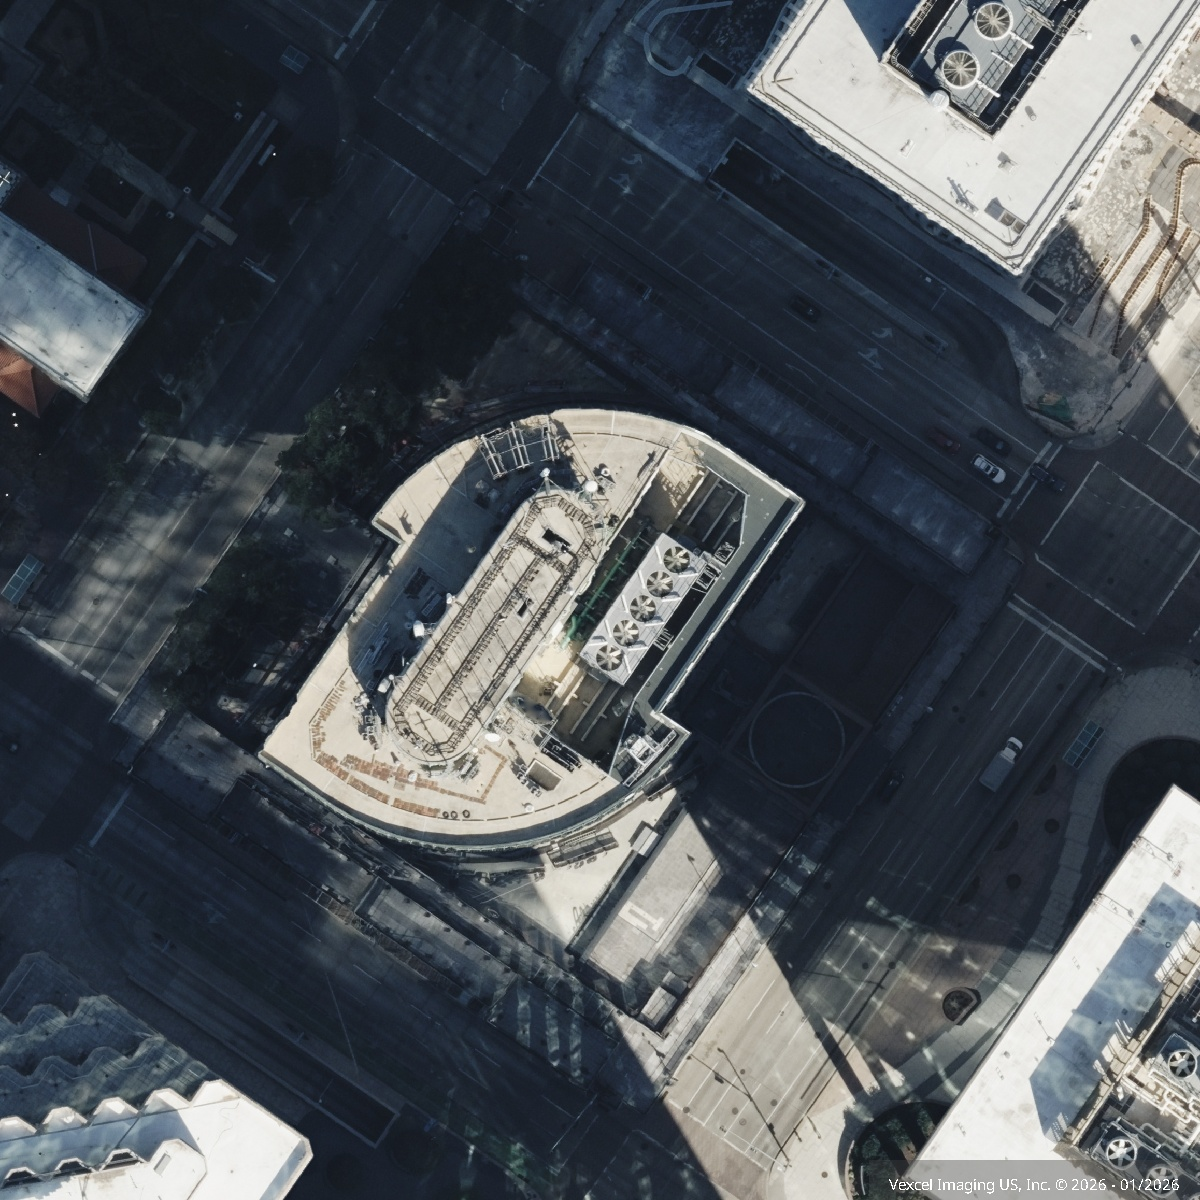
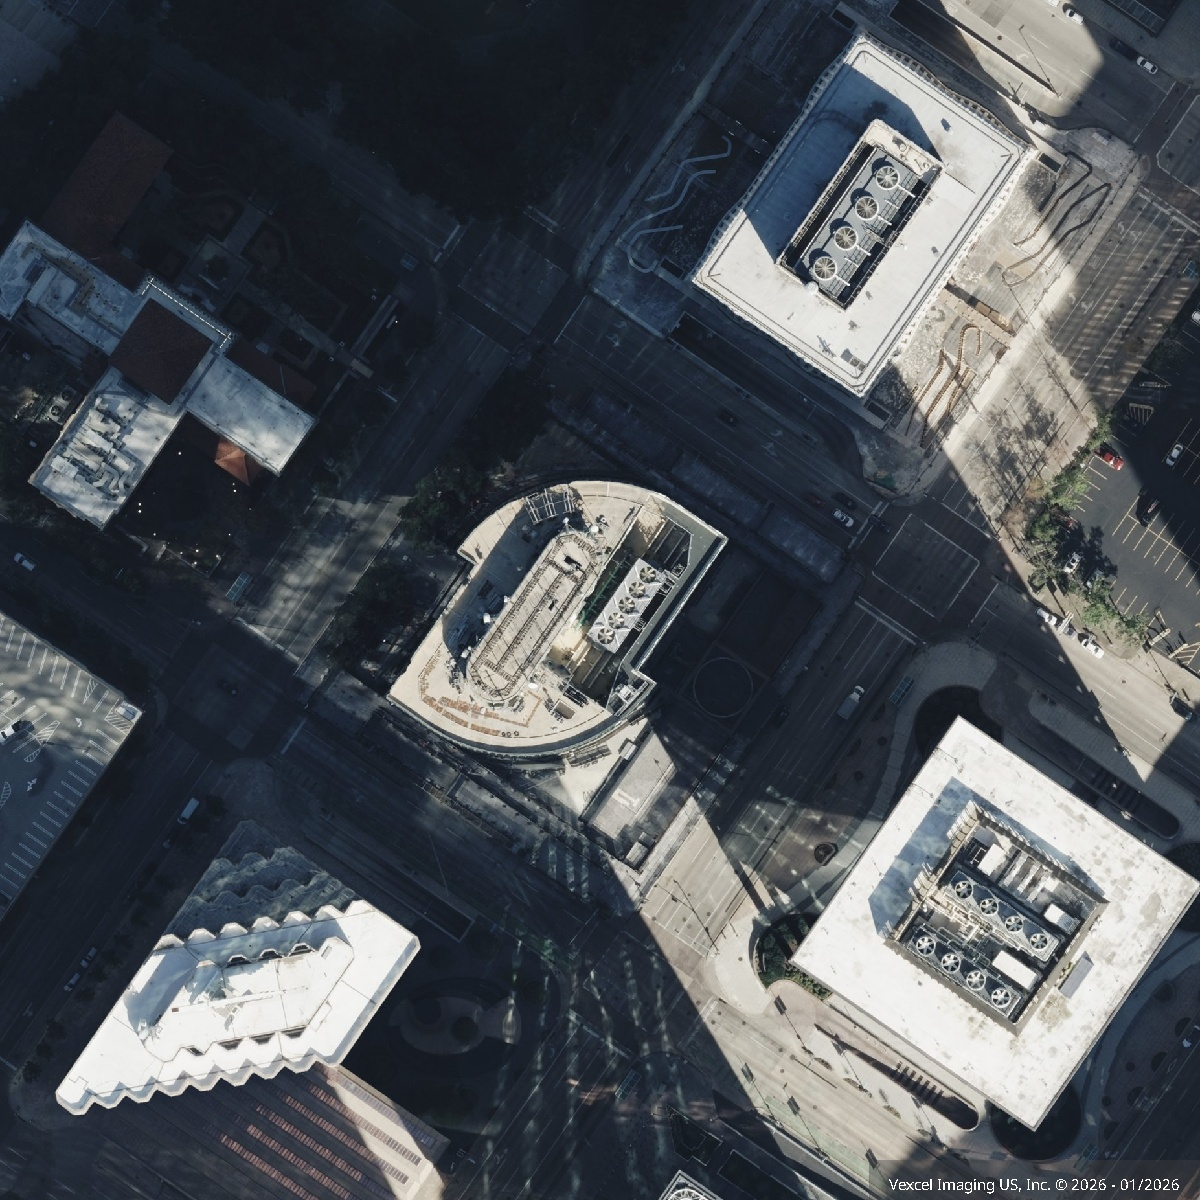
Briefings point to labelled maps instead of scanner jargon; aerial becomes an approach map
- Approach map (outside.approach_map): Vexcel footprint outlined, hydrants H1.., staging lot S
  (or an edge note when off the image), smoke-drift arrow from live wind, neighbouring kit
  buildings, north arrow, 50 m scale. Aerial now covers 240 m so the closest hydrants fit.
- Text: FLOOR MAP / 3D TOUR / HYDRANTS H1 H2 / WIND / STAGING lines; no scan points, scan start
  or walk distances from the scanner. NOT KNOWN names stair and elevator locations.
- Skills, AGENTS.md and a new rubric criterion keep the live agent to the same wording.
- outside.wind() shared by the draft and the agent; footprint WKT kept out of agent tool output.

diff --git a/primesight/outside.py b/primesight/outside.py
@@ -37,12 +37,24 @@ def roof(lat, lon):
         return {}
     a = f[0]["properties"]
     s = max(a.get("structures", []), key=lambda s: s.get("structure.footprint.area", 0) or 0, default={})
-    keep = ("height", "roof-characteristics.material", "roof-objects", "footprint.area", "roof-shape")
+    keep = ("height", "roof-characteristics.material", "roof-objects", "footprint.area", "footprint.wkt", "roof-shape")
     return {"capture_date": a.get("metadata.capture-date") or a.get("metadata.collection"),
             **{k.replace("structure.", ""): v for k, v in s.items() if any(x in k for x in keep)}}
 
 
-def ortho(lat, lon, path, half_m=75):
+def wind(lat, lon):
+    """Current wind and weather at a point (Open-Meteo model, no key). wind_direction_10m is where wind blows FROM."""
+    r = requests.get("https://api.open-meteo.com/v1/forecast", timeout=15, params={
+        "latitude": lat, "longitude": lon, "current": "wind_speed_10m,wind_direction_10m,wind_gusts_10m,temperature_2m,precipitation",
+        "wind_speed_unit": "mph", "temperature_unit": "fahrenheit"})
+    r.raise_for_status()
+    return r.json()["current"]
+
+
+HALF_M = 120  # aerial covers 240 m x 240 m: the building plus the closest hydrants and lots
+
+
+def ortho(lat, lon, path, half_m=HALF_M):
     img = _vx("POST", "ortho/extract", json={"wkt": square(lat, lon, half_m), "srid": 4326, "layer": LAYERS,
                                               "crop": "bounding_box", "image-format": "jpeg", "destination-dimensions": "1200,1200"})
     os.makedirs(os.path.dirname(path), exist_ok=True)
@@ -89,7 +101,99 @@ def hydrants(lat, lon, city, radius_m=150):
     return sorted((*bearing(lat, lon, y, x), y, x) for y, x in pts)
 
 
+DIRS = "N NE E SE S SW W NW".split()
+
+
+def on_map(lat, lon, la, lo, half_m=HALF_M):
+    """Is (la, lo) inside the aerial square centred on (lat, lon)? Map and briefing text number hydrants with this."""
+    return abs(la - lat) * 111_320 < half_m and abs(lo - lon) * 111_320 * math.cos(math.radians(lat)) < half_m
+
+
+def approach_map(src, lat, lon, half_m=HALF_M, footprint=None, title="", hydrants=(), staging=(), wind_from=None,
+                 wind_text="", neighbors=()):
+    """Label the aerial for a crew: target building outlined, hydrants H1.., staging lot S (an arrow at the edge if it is
+    off the image), smoke-drift arrow from the wind, neighbouring buildings, north arrow and a 50 m scale.
+    src is the plain ortho from ortho(); writes <src>_approach.jpg and returns its path.
+    hydrants: [(m, dir, lat, lon)], staging: [(score, m, dir, lat, lon)], neighbors: [{name, stories, sprinklers, lat, lon}]."""
+    from PIL import Image, ImageDraw, ImageFont
+    im = Image.open(src).convert("RGB")
+    W, H = im.size
+    dl, dn = half_m / 111_320, half_m / (111_320 * math.cos(math.radians(lat)))
+    px = lambda la, lo: ((lo - (lon - dn)) / (2 * dn) * W, ((lat + dl) - la) / (2 * dl) * H)
+    inside = lambda p: 0 <= p[0] < W and 0 <= p[1] < H
+    over = Image.new("RGBA", im.size, (0, 0, 0, 0))
+    d = ImageDraw.Draw(over)
+    big, small = ImageFont.load_default(size=max(22, W // 30)), ImageFont.load_default(size=max(18, W // 40))
+    txt = lambda xy, s, f=small, fill="white": d.text(xy, s, font=f, fill=fill, stroke_width=4, stroke_fill="black")
+    cx, cy = W / 2, H / 2
+    if footprint:  # Vexcel structure outline, WKT in lon/lat
+        from shapely import wkt
+        g = wkt.loads(footprint)
+        for poly in getattr(g, "geoms", [g]):
+            pts = [px(y, x) for x, y in poly.exterior.coords]
+            d.line(pts + pts[:1], fill=(255, 140, 0, 255), width=max(5, W // 200))
+        c = g.centroid
+        cx, cy = px(c.y, c.x)
+    else:  # no outline: ring the CoStar point
+        r = W // 14
+        d.ellipse((cx - r, cy - r, cx + r, cy + r), outline=(255, 140, 0, 255), width=max(5, W // 200))
+    if wind_from is not None:  # smoke drifts the way the wind blows TO
+        a = math.radians(wind_from + 180)
+        L = 0.38 * min(W, H)
+        tip = (cx + L * math.sin(a), cy - L * math.cos(a))
+        d.line([(cx, cy), tip], fill=(230, 230, 230, 170), width=max(10, W // 70))
+        for s in (-1, 1):  # arrowhead
+            b = a + math.pi + s * 0.45
+            d.line([tip, (tip[0] + 0.12 * L * math.sin(b), tip[1] - 0.12 * L * math.cos(b))], fill=(230, 230, 230, 200), width=max(10, W // 70))
+        txt((min(tip[0], W - 160), min(max(tip[1], 60), H - 120)), "SMOKE", big)
+    for nb in neighbors:
+        p = px(nb["lat"], nb["lon"])
+        if inside(p):
+            d.ellipse((p[0] - 10, p[1] - 10, p[0] + 10, p[1] + 10), fill=(255, 220, 0, 255), outline="black", width=2)
+            txt((p[0] + 14, p[1] - 12), f'{nb["name"][:18]}, {nb["stories"]} fl, sprinklers {nb["sprinklers"]}', fill=(255, 230, 90))
+    for i, (_, _, _, la, lo) in enumerate(staging[:1]):
+        p = px(la, lo)
+        if inside(p):
+            d.rectangle((p[0] - 26, p[1] - 26, p[0] + 26, p[1] + 26), outline=(0, 230, 255, 255), width=6)
+            txt((p[0] - 10, p[1] - 18), "S", big, fill=(0, 230, 255))
+        else:  # off the image: arrow on the edge toward it
+            m, dr = staging[0][1], staging[0][2]
+            k = min((W / 2 - 40) / max(abs(p[0] - W / 2), 1), (H / 2 - 70) / max(abs(p[1] - H / 2), 1))
+            q = (W / 2 + (p[0] - W / 2) * k, H / 2 + (p[1] - H / 2) * k)
+            txt((min(max(q[0] - 60, 4), W - 300), min(max(q[1] - 16, 60), H - 110)), f"S: {m} m {dr} (off map)", big, fill=(0, 230, 255))
+    n = 0
+    for m, dr, la, lo in hydrants:
+        p = px(la, lo)
+        if on_map(lat, lon, la, lo, half_m) and n < 6:
+            n += 1
+            d.ellipse((p[0] - 15, p[1] - 15, p[0] + 15, p[1] + 15), fill=(230, 30, 30, 255), outline="white", width=3)
+            txt((p[0] + 18, p[1] - 14), f"H{n}", big, fill=(255, 120, 120))
+    # frame: title, north arrow, scale, legend
+    d.rectangle((0, 0, W, 52), fill=(0, 0, 0, 170))
+    txt((12, 10), (title or "APPROACH MAP")[:60], big)
+    d.polygon([(W - 40, 70), (W - 54, 108), (W - 26, 108)], fill="white")
+    txt((W - 48, 110), "N", big)
+    s50 = 50 / (2 * half_m) * W
+    d.rectangle((14, H - 104, 14 + s50, H - 96), fill="white")
+    txt((14, H - 132), "50 m")
+    d.rectangle((0, H - 86, W, H), fill=(0, 0, 0, 170))
+    txt((12, H - 80), "orange = target   H = hydrant   S = open lot for staging (verify)")
+    txt((12, H - 46), wind_text or "wind not available")
+    out = src.replace(".jpg", "_approach.jpg")
+    Image.alpha_composite(im.convert("RGBA"), over).convert("RGB").save(out, quality=88)
+    return out
+
+
 if __name__ == "__main__":
+    import tempfile
+    from PIL import Image
+    t = os.path.join(tempfile.mkdtemp(), "a.jpg")
+    Image.new("RGB", (600, 600), (40, 60, 40)).save(t)
+    o = approach_map(t, 29.76, -95.37, footprint="POLYGON((-95.3702 29.7598,-95.3698 29.7598,-95.3698 29.7602,-95.3702 29.7602,-95.3702 29.7598))",
+                     hydrants=[(40, "N", 29.7604, -95.37), (500, "E", 29.76, -95.365)], staging=[(0.9, 400, "S", 29.7564, -95.37)],
+                     wind_from=60, wind_text="wind from ENE 8 mph", neighbors=[{"name": "Next Door", "stories": 3, "sprinklers": "yes", "lat": 29.7597, "lon": -95.3708}])
+    assert os.path.exists(o) and Image.open(o).size == (600, 600)
+    assert Image.open(o).getpixel((300, 2)) != (40, 60, 40)  # title band drawn
     assert bearing(0, 0, 0.001, 0)[1] == "N" and bearing(0, 0, 0, -0.001)[1] == "W"
     lat, lon = 29.7584604, -95.3682126
     print("hydrants", hydrants(lat, lon, "Houston")[:3])

diff --git a/primesight/briefing.py b/primesight/briefing.py
@@ -21,7 +21,8 @@ def gather(pid, floor):
             gaps.append(f"{name} unavailable ({type(e).__name__})")
             return None
 
-    with ThreadPoolExecutor(6) as ex:
+    with ThreadPoolExecutor(7) as ex:
+        f_wind = ex.submit(soft, "wind", outside.wind, lat, lon)
         f_hyd = ex.submit(soft, "hydrants", outside.hydrants, lat, lon, b["address"].split(", ")[-2])
         f_roof = ex.submit(soft, "roof data", outside.roof, lat, lon)
         f_stage = ex.submit(soft, "staging search", outside.staging, lat, lon)
@@ -58,8 +59,15 @@ def gather(pid, floor):
         if plan_img and frame:
             plan_img = soft("floorplan markup", mark_plan, plan_img, frame, v["sweeps"], vision.get("route")) or plan_img
 
-    last[pid] = {"building": b, "floor": floor, "hydrants": f_hyd.result() or [], "roof": f_roof.result() or {},
-            "staging": f_stage.result() or [], "aerial": f_ortho.result(), "scans": scans, "scan": scan,
+    hyd, roof, stage, w, aerial = f_hyd.result() or [], f_roof.result() or {}, f_stage.result() or [], f_wind.result(), f_ortho.result()
+    if aerial:  # label the plain aerial for the crew; the plain one stays on disk
+        wt = (f"wind from {outside.DIRS[round(w['wind_direction_10m'] / 45) % 8]} {round(w['wind_speed_10m'])} mph, "
+              f"smoke drifts {outside.DIRS[round((w['wind_direction_10m'] + 180) / 45) % 8]}") if w else ""
+        aerial = soft("approach map", outside.approach_map, aerial, lat, lon, outside.HALF_M, roof.get("footprint.wkt"),
+                      f"{b['name'] or b['address'].split(',')[0]}, {b['stories']} fl", hyd, stage,
+                      w and w["wind_direction_10m"], wt, costar.neighbors(pid)) or aerial
+    last[pid] = {"building": b, "floor": floor, "hydrants": hyd, "roof": roof, "wind": w,
+            "staging": stage, "aerial": aerial, "scans": scans, "scan": scan,
             "scan_exact": exact, "floorplan": plan_img, "vision": vision, "gaps": gaps}
     return last[pid]
 
@@ -186,36 +194,45 @@ def compose(f, incident, label=None):
         below = _people(b["tenants"], set(range(1, fl)))
         L.append(f"BELOW: ~{below} people on floors 1-{fl - 1} (water runs down)  |  sprinklers: {b['sprinklers']}, type {b['sprinkler_type'].lower()}")
 
-    # Outside
+    # Outside: the approach map (labelled aerial) carries positions; the text says what is on it
+    amap = str(f.get("aerial") or "").endswith("_approach.jpg")
+    on = lambda la, lo: amap and outside.on_map(b["lat"], b["lon"], la, lo)
     if incident in ("fire", "hazmat") and f["hydrants"]:
-        L.append("HYDRANTS: " + ", ".join(f"{m} m {d}" for m, d, *_ in f["hydrants"][:2]))
+        labelled = [(m, d) for m, d, la, lo in f["hydrants"] if on(la, lo)][:2]
+        L.append("HYDRANTS: " + (", ".join(f"H{i} {m} m {d}" for i, (m, d) in enumerate(labelled, 1)) + " (approach map)" if labelled
+                                 else ", ".join(f"{m} m {d}" for m, d, *_ in f["hydrants"][:2])))
+    w = f.get("wind")
+    if incident in ("fire", "hazmat") and w:
+        frm = w["wind_direction_10m"]
+        L.append(f"WIND: from {outside.DIRS[round(frm / 45) % 8]} {round(w['wind_speed_10m'])} mph, smoke drifts "
+                 f"{outside.DIRS[round((frm + 180) / 45) % 8]}")
     if f["staging"]:
-        _, m, d, *_ = f["staging"][0]
-        L.append(f"OPEN LOT for staging ~{m} m {d} (aerial search, verify)")
+        _, m, d, la, lo = f["staging"][0]
+        L.append(f"STAGING: open lot ~{m} m {d}" + (" (S on approach map" if on(la, lo) else " (off the approach map")
+                 + ", from aerial search, verify)")
     roof = f["roof"]
     if incident == "fire" and roof.get("roof-characteristics.material.class"):
         L.append(f"ROOF: {roof['roof-characteristics.material.class']}"
                  + (f", {roof['roof-objects.ac-unit.count']} AC unit(s)" if roof.get("roof-objects.ac-unit.count") else ""))
 
     # Inside
-    s = f["scan"]
+    # Inside: the marked floor map carries positions; never scan jargon (scan points, scan start) in crew text
+    s, v = f["scan"], f.get("vision")
+    if s and f.get("floorplan"):
+        n = (v or {}).get("located") or {}
+        marks = [f"{n[k]} {lab}{'s' if n[k] > 1 else ''} ({col})"
+                 for k, lab, col in (("exit sign", "exit sign", "green"), ("fire alarm pull station", "fire alarm pull", "red")) if n.get(k)]
+        L.append((f"FLOOR MAP (floor {fl}, attached)" if f["scan_exact"] else f"FLOOR MAP is floor {s['floor']}, not {fl} (same core, layout may differ)")
+                 + (": " + ", ".join(marks) if marks else ""))
     if s:
-        L.append(("INSIDE: 3D scan of this floor" if f["scan_exact"] else f"INSIDE: no scan of {fl}; nearest is floor {s['floor']} (same core, layout may differ)")
-                 + f"  |  {len(s['sweeps'])} scan points  |  {s['link']}")
+        L.append(f"3D TOUR of floor {s['floor']}: {s['link']}")
     else:  # never borrow rooms or routes from somewhere else: say plainly there is nothing
         L.append("INSIDE: no interior scan" + (" with a known floor" if f["scans"] else " for this building"))
-    v = f.get("vision")
-    if v:
-        w, n = v["scan_points_with"], v.get("located") or {}
-        L.append(f"EXIT SIGNS: {n.get('exit sign', 0)} located (seen from {w['exit sign']} of {v['scan_points']} scan points)"
-                 + (f", pull stations: {n.get('fire alarm pull station', 0)} located" if w["fire alarm pull station"] else "")
-                 + ("" if f["scan_exact"] else f" (floor {s['floor']} scan)")
-                 + (f"; {walk_line(v['route'])}" if v.get("route") else ""))
     pm = next((c for c in b["contacts"] if c["role"] == "Property manager"), None)
     if pm:
         L.append(f"PROPERTY MGR: {pm['company']} {pm['phone']}")
 
-    unknown = [k for k, v in (("sprinkler type", b["sprinkler_type"] == "Unknown"), ("stair locations", True)) if v] + f["gaps"]
+    unknown = [k for k, v in (("sprinkler type", b["sprinkler_type"] == "Unknown"), ("stair and elevator locations", True)) if v] + f["gaps"]
     L.append("NOT KNOWN: " + ", ".join(unknown))
     return "\n".join(L)
 

diff --git a/primesight/agent.py b/primesight/agent.py
@@ -69,7 +69,8 @@ def gather_building(property_id: int, floor: int, incident: str, incident_type: 
                              for t in b["tenants"] if t["floor"] == floor],
         "tenants_nearby_floors": [{"name": t["name"], "floor": t["floor"], "about": t["about"]} for t in b["tenants"]
                                   if t["floor"] and abs(t["floor"] - floor) <= 3 and t["floor"] != floor],
-        "hydrants": f["hydrants"][:3], "staging": f["staging"][:2], "roof": f["roof"],
+        "hydrants": f["hydrants"][:3], "staging": f["staging"][:2],
+        "roof": {k: x for k, x in f["roof"].items() if k != "footprint.wkt"},  # the outline is drawn on the map, not read
         "scan": {"id": (f["scan"] or {}).get("id"), "exact_floor": f["scan_exact"], "floor": (f["scan"] or {}).get("floor"),
                  "link": (f["scan"] or {}).get("link")},
         # SAM 3 counts from the scan's panoramas (exit signs, pull stations), if precomputed; the walk route is the
@@ -118,12 +119,8 @@ def compass(deg):
 
 @functools.lru_cache(maxsize=64)
 def _wind(lat, lon, slot):  # slot: 10-minute bucket, so a cached reading is never older than that
-    import requests
-    r = requests.get("https://api.open-meteo.com/v1/forecast", timeout=15, params={
-        "latitude": lat, "longitude": lon, "current": "wind_speed_10m,wind_direction_10m,wind_gusts_10m,temperature_2m,precipitation",
-        "wind_speed_unit": "mph", "temperature_unit": "fahrenheit"})
-    r.raise_for_status()
-    return r.json()["current"]
+    from . import outside
+    return outside.wind(lat, lon)
 
 
 @functools.lru_cache(maxsize=64)
@@ -155,7 +152,7 @@ def outside_now(property_id: int) -> str:
         out["hydrants"] = {"error": f"hydrant layer unavailable ({type(e).__name__})"}
     try:
         from . import outside
-        out["roof"] = outside.roof(b["lat"], b["lon"])
+        out["roof"] = {k: x for k, x in outside.roof(b["lat"], b["lon"]).items() if k != "footprint.wkt"}
     except Exception as e:
         out["roof"] = {"error": f"roof data unavailable ({type(e).__name__})"}
     # Exposures: only buildings in the CoStar kit, a sample, so an unlisted building may stand closer.
@@ -280,7 +277,9 @@ RUBRIC_BRIEF = """The final message is the crew briefing. Criteria:
 3. It has a NOT KNOWN line, and if the 3D scan is from a different floor it says so.
 4. It states facts, not orders: no tactical instructions such as where to search or which stair to use.
 5. Tenant risks inferred from a name only are marked possible or "from name only".
-6. The first line after the header is the most urgent fact for this incident type (fire: people above; medical: elevator or patient location; hazmat: tenant risk; rescue: elevators or keys; security: people on and near the floor; utility: sprinklers or elevators)."""
+6. The first line after the header is the most urgent fact for this incident type (fire: people above; medical: elevator or patient location; hazmat: tenant risk; rescue: elevators or keys; security: people on and near the floor; utility: sprinklers or elevators).
+7. No 3D-capture words a firefighter wouldn't know: no "scan points", "scan start", "sweeps", and no walking distances
+   measured from where the scanner began. Positions are shown on the attached FLOOR MAP and APPROACH MAP instead."""
 
 RUBRIC_REPLY = """The final message answers a crew reply (the latest message starting "CREW:"). Criteria:
 1. At most 3 lines, plain ASCII.

diff --git a/primesight/costar.py b/primesight/costar.py
@@ -162,7 +162,7 @@ def neighbors(pid, radius_m=100, n=5):
             continue
         m, d = bearing(b["lat"], b["lon"], p["lat"], p["lon"])
         if m <= radius_m:
-            out.append({**{k: p[k] for k in ("name", "stories", "construction", "sprinklers", "type")}, "m": m, "dir": d})
+            out.append({**{k: p[k] for k in ("name", "stories", "construction", "sprinklers", "type", "lat", "lon")}, "m": m, "dir": d})
     return sorted(out, key=lambda x: x["m"])[:n]
 
 

diff --git a/primesight/agentfs/AGENTS.md b/primesight/agentfs/AGENTS.md
@@ -4,11 +4,14 @@ Loaded into every run. Incident-specific guidance lives in the skills (fire, med
 
 ## The briefing is an SMS read in a moving truck
 - Plain ASCII, at most 12 lines, most urgent first. No markdown, no bullets, no emoji.
-- One fact per line, with a CAPS label first (ON FLOOR, ABOVE FIRE, ELEVATOR, HYDRANTS, INSIDE, NOT KNOWN).
+- One fact per line, with a CAPS label first (ON FLOOR, ABOVE FIRE, ELEVATOR, HYDRANTS, FLOOR MAP, NOT KNOWN).
 - Keep every fact the draft briefing states. Use only facts the tools returned.
 - Keep the NOT KNOWN line. If the scan is from a different floor, say so.
-- The "walk from scan start" distances run over the scan points from wherever the scanner began, often an office. Never call that point the entry or the elevator lobby; the marked floorplan shows it as a blue square.
-- End with the 3D scan link when there is one.
+- Two images go with the text: the FLOOR MAP (floor plan with exit signs green and fire alarm pulls red) and the APPROACH MAP
+  (aerial with the building outlined, hydrants H1, H2.., staging lot S, smoke-drift arrow). Point to them by those names.
+- Never use 3D-capture words with the crew: no "scan points", "scan start", "sweeps" or walking distances measured from where
+  the scanner began. A firefighter does not know what they mean; the maps show positions instead.
+- End with the 3D TOUR link when there is one.
 
 ## Facts, not orders
 - State what the data says. Never tell the crew what to do ("search 30-33", "use stair B"): the officer decides.

diff --git a/primesight/agentfs/skills/fire/SKILL.md b/primesight/agentfs/skills/fire/SKILL.md
@@ -10,9 +10,9 @@ Order of lines, after the header:
 2. ON FLOOR: who is on the fire floor, suites, headcount.
 3. WATER and WIND from outside-scout on one line: hydrants within 300 m with the two nearest (metres, direction), and wind
    from / mph / where smoke drifts (live Open-Meteo reading). Fall back to the HYDRANTS line in the draft if outside-scout fails.
-4. INSIDE: the scan line, and the EXIT SIGNS line from the scan if there is one. Say "N located (seen from X of Y scan points)": each located sign is counted once; it is not a stair location.
+4. FLOOR MAP: the draft's FLOOR MAP line as is (exit signs green, fire alarm pulls red on the attached floor map; an exit sign is not a stair location). Then the 3D TOUR line.
 5. Building: stories, year built, frame, sprinklers yes/no and type if known.
-6. ROOF and OPEN LOT for staging (aerial search, verify). NEXT TO from outside-scout if it has one (exposures:
+6. ROOF and STAGING (S on the approach map, aerial search, verify). NEXT TO from outside-scout if it has one (exposures:
    neighbouring building, distance, stories, sprinklers; kit records only), noting one that lies where smoke drifts.
 7. PROPERTY MGR contact if known.
 8. NOT KNOWN: always include stair locations and standpipe locations unless a crew note gives them.

diff --git a/primesight/agentfs/skills/security/SKILL.md b/primesight/agentfs/skills/security/SKILL.md
@@ -10,8 +10,8 @@ Order of lines, after the header:
 2. ON FLOOR: tenants and suites on the floor. Flag vulnerable occupants (clinic, school, daycare) from tenant-risk.
    Never call a tenant a possible target because of who it is (religion, ethnicity, nationality, politics): crews act on
    where people are, not on guesses about motive.
-3. EXITS: exit signs and pull stations seen in the scan, and walk distances from the scan start. Say these are from a 3D scan, not a plan.
-4. STAGING: open lots from the aerial search, with distance and direction. Say "verify" (a lot may be in line of sight).
+3. FLOOR MAP: the draft's FLOOR MAP line (exit signs and fire alarm pulls marked on the attached floor map, from a 3D scan, not a building plan).
+4. STAGING: the open lot from the aerial search (S on the approach map), with distance and direction. Say "verify" (a lot may be in line of sight).
 5. WHO HAS ACCESS: property manager with phone (badges, cameras, elevator recall). Security supervisor contacts are rarely in the data; say so if missing.
 6. NOT KNOWN: camera locations, door locks, stair locations.
 

diff --git a/primesight/agentfs/skills/hazmat/SKILL.md b/primesight/agentfs/skills/hazmat/SKILL.md
@@ -11,6 +11,6 @@ Order of lines, after the header:
 3. ON FLOOR and people on floors near the incident floor.
 4. WIND from outside-scout: where it comes from, mph, and where gas or vapor drifts (live Open-Meteo reading, give its time).
    If outside-scout says wind is unavailable, wind goes on NOT KNOWN.
-5. OPEN LOT for staging with distance and direction (aerial search, verify), then WATER: hydrant count and the two nearest.
-6. INSIDE: the scan line and link.
+5. STAGING with distance and direction (S on the approach map, aerial search, verify), then WATER: hydrant count and the two nearest (H1, H2 on the approach map) and WIND.
+6. FLOOR MAP and 3D TOUR lines from the draft.
 7. NOT KNOWN: what is actually stored, plus the usual unknowns (and wind, if unavailable).

diff --git a/primesight/agentfs/skills/medical/SKILL.md b/primesight/agentfs/skills/medical/SKILL.md
@@ -9,7 +9,7 @@ Order of lines, after the header:
 1. ELEVATOR: freight car on record (fits a stretcher) or passenger only, from the data.
 2. ON FLOOR: tenant(s) on the patient's floor with suite numbers, so the crew knows which door. Headcount if known.
 3. WHO TO ASK: property manager or building contact with phone, if known. Never invent a name.
-4. INSIDE: the scan line and link, so the crew can see the floor layout before arriving.
+4. FLOOR MAP and 3D TOUR lines from the draft, so the crew can see the floor layout before arriving.
 5. Building: stories, address. Skip hydrants and roof unless the call mentions fire.
 6. NOT KNOWN: include AED location and freight elevator location unless the data or a crew note gives them.
 

diff --git a/primesight/agentfs/skills/rescue/SKILL.md b/primesight/agentfs/skills/rescue/SKILL.md
@@ -10,7 +10,7 @@ Order of lines, after the header:
 2. WHO HAS KEYS: property manager or building engineer with phone, if known (elevator keys, machine room, fire panel). Never invent a name.
 3. ON FLOOR: tenants and headcount on the incident floor.
 4. BUILDING: construction frame and year built (collapse), roof type and AC units (suspended worker, roof access).
-5. INSIDE: scan line and link; walk distances from the scan start if the scan is this floor.
+5. FLOOR MAP and 3D TOUR lines from the draft.
 6. NOT KNOWN: machine room location, elevator car numbers, and anything else the data doesn't give.
 
 Facts only. Never say which shaft or car the people are in unless the call or a crew note says so.
